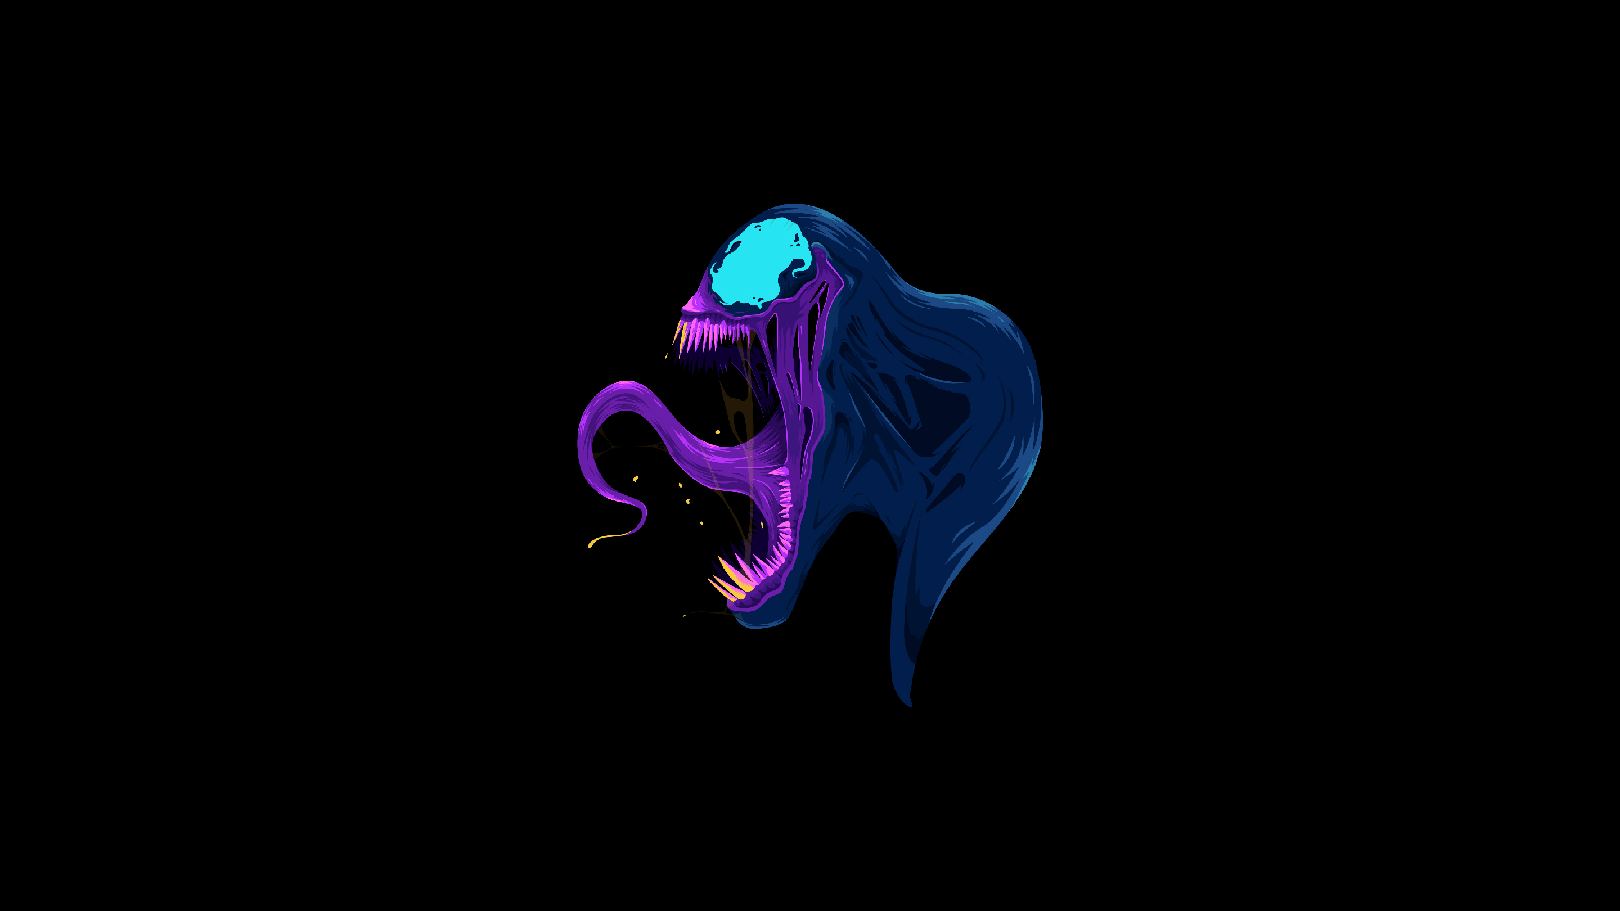
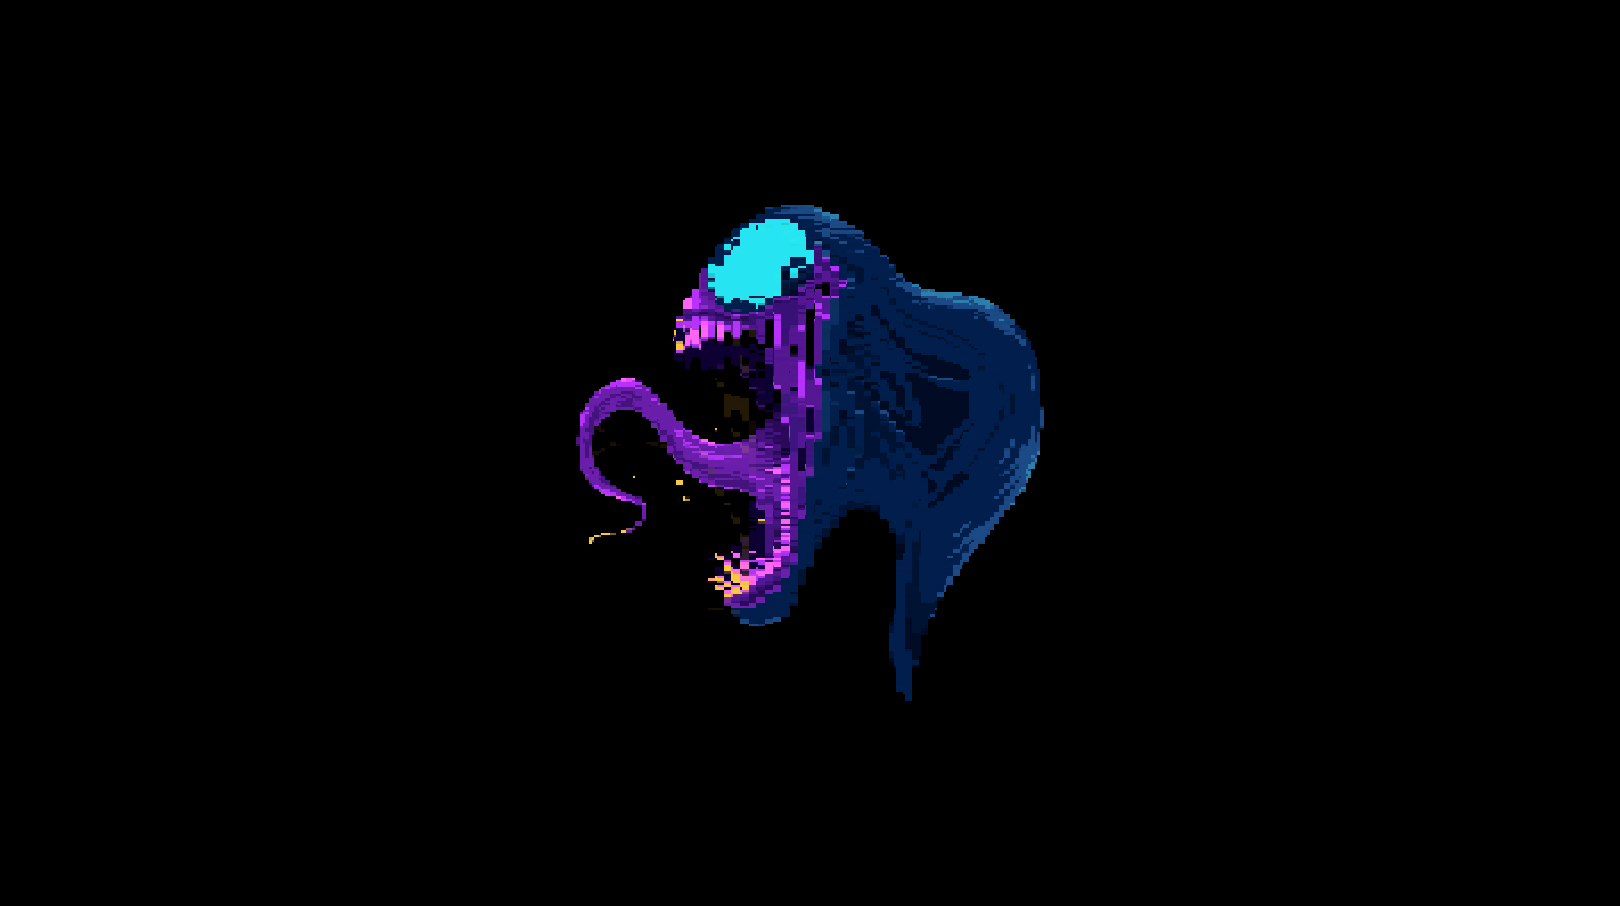
Fixed scaling issue

diff --git a/src/CyderMain.java b/src/CyderMain.java
@@ -48,7 +48,9 @@ import java.util.concurrent.TimeUnit;
 //todo move errors to user specific folders
 //todo hangman and ttt use cyder frame
 //todo start animation for login broken
-//todo login animation sliding for words broken
+//todo if press x in cyderframe when login is active, just dispose cyder frame
+//todo utilize start animations after you fix it
+//todo consolidate method for exiting tasks
 
 public class CyderMain{
     //console vars

diff --git a/src/com/cyder/games/TicTacToe.java b/src/com/cyder/games/TicTacToe.java
@@ -10,7 +10,9 @@ import java.awt.*;
 public class TicTacToe {
 
     private JFrame TTTFrame;
+
     private Util TTTUtil = new Util();
+
     private CyderButton TTT9;
     private CyderButton TTT8;
     private CyderButton TTT7;
@@ -28,8 +30,6 @@ public class TicTacToe {
     private final int PlayerO = 1;
 
     private JLabel TTTLabel;
-
-
 
     public void startTicTacToe() {
         if (TTTFrame != null)

diff --git a/src/com/cyder/utilities/TempConverter.java b/src/com/cyder/utilities/TempConverter.java
@@ -23,7 +23,7 @@ public class TempConverter {
 
     public TempConverter() {
         if (temperatureFrame != null)
-            tempUtil.closeAnimation(temperatureFrame);
+            new Util().closeAnimation(temperatureFrame);
 
         temperatureFrame = new CyderFrame(600,320,new ImageIcon("src\\com\\cyder\\io\\pictures\\DebugBackground.png"));
         temperatureFrame.setTitle("Temperature Converter");

diff --git a/src/com/cyder/utilities/DirectorySearch.java b/src/com/cyder/utilities/DirectorySearch.java
@@ -24,10 +24,9 @@ public class DirectorySearch {
     private Stack<String> foward = new Stack<>();
 
     private String rightNow = System.getProperty("user.dir");
-
     public DirectorySearch() {
         if (dirFrame != null)
-            dirUtil.closeAnimation(dirFrame);
+            new Util().closeAnimation(dirFrame);
 
         dirFrame = new JFrame();
         dirFrame.setTitle("Directory Search");

diff --git a/src/com/cyder/utilities/Hasher.java b/src/com/cyder/utilities/Hasher.java
@@ -16,7 +16,6 @@ public class Hasher {
         CyderFrame hashFrame = new CyderFrame(500,200,new ImageIcon("src\\com\\cyder\\io\\pictures\\DebugBackground.png"));
         hashFrame.setTitle("Hasher");
 
-
         JLabel Instructions = new JLabel("Enter your password to be hashed");
         Instructions.setForeground(hashUtil.navy);
         Instructions.setFont(hashUtil.weatherFontSmall);

diff --git a/src/com/cyder/ui/DragLabel.java b/src/com/cyder/ui/DragLabel.java
@@ -68,9 +68,7 @@ public class DragLabel extends JLabel {
 
         close.setToolTipText("Close");
 
-        close.addActionListener(e -> {
-            dragLabelUtil.closeAnimation(effectFrame);
-        });
+        close.addActionListener(e -> dragLabelUtil.closeAnimation(effectFrame));
 
         close.addMouseListener(new MouseAdapter() {
             @Override

diff --git a/src/com/cyder/utilities/Pizza.java b/src/com/cyder/utilities/Pizza.java
@@ -28,7 +28,7 @@ public class Pizza {
 
     public Pizza() {
         if (pizzaFrame != null)
-            pizzaUtil.closeAnimation(pizzaFrame);
+            new Util().closeAnimation(pizzaFrame);
 
         pizzaFrame = new JFrame();
         pizzaFrame.setTitle("Pizza");

diff --git a/src/com/cyder/utilities/YouTubeThumbnail.java b/src/com/cyder/utilities/YouTubeThumbnail.java
@@ -13,6 +13,8 @@ import java.awt.event.MouseMotionListener;
 import java.awt.image.BufferedImage;
 import java.net.URL;
 
+//todo remove swing dependency
+
 public class YouTubeThumbnail {
     private JFrame yttnFrame;
     private CyderButton getYTTN;

diff --git a/src/com/cyder/handler/PhotoViewer.java b/src/com/cyder/handler/PhotoViewer.java
@@ -26,7 +26,6 @@ public class PhotoViewer {
     private DragLabel dl;
     private JFrame pictureFrame;
 
-
     private JLabel pictureLabel;
 
     private JLabel nextImage;
